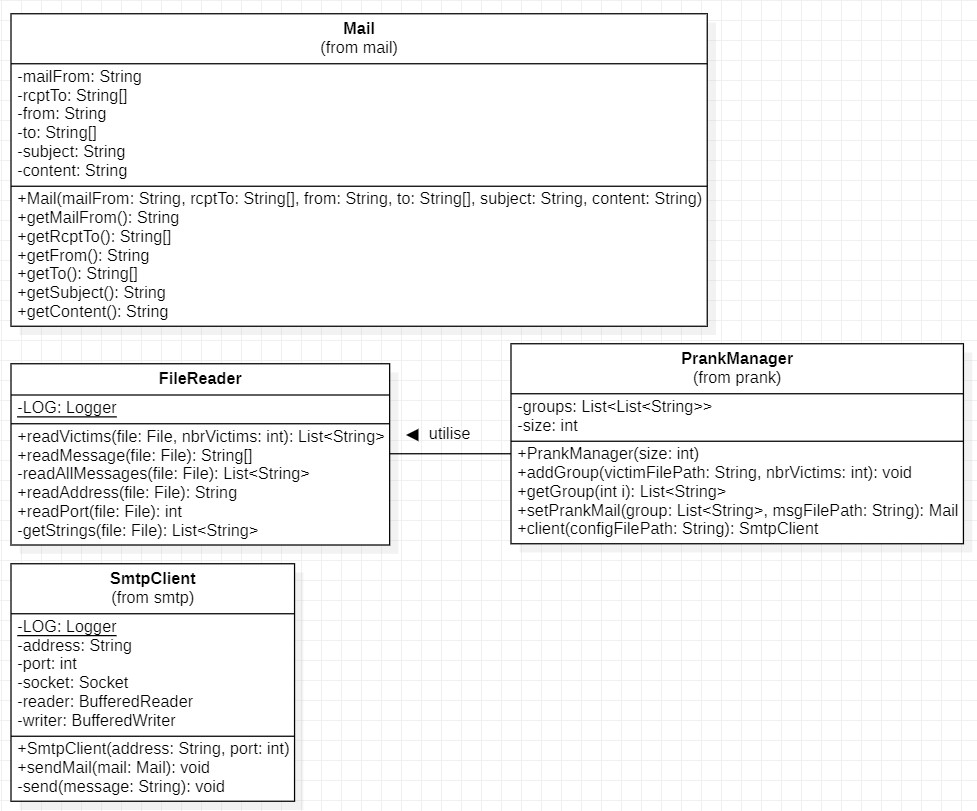
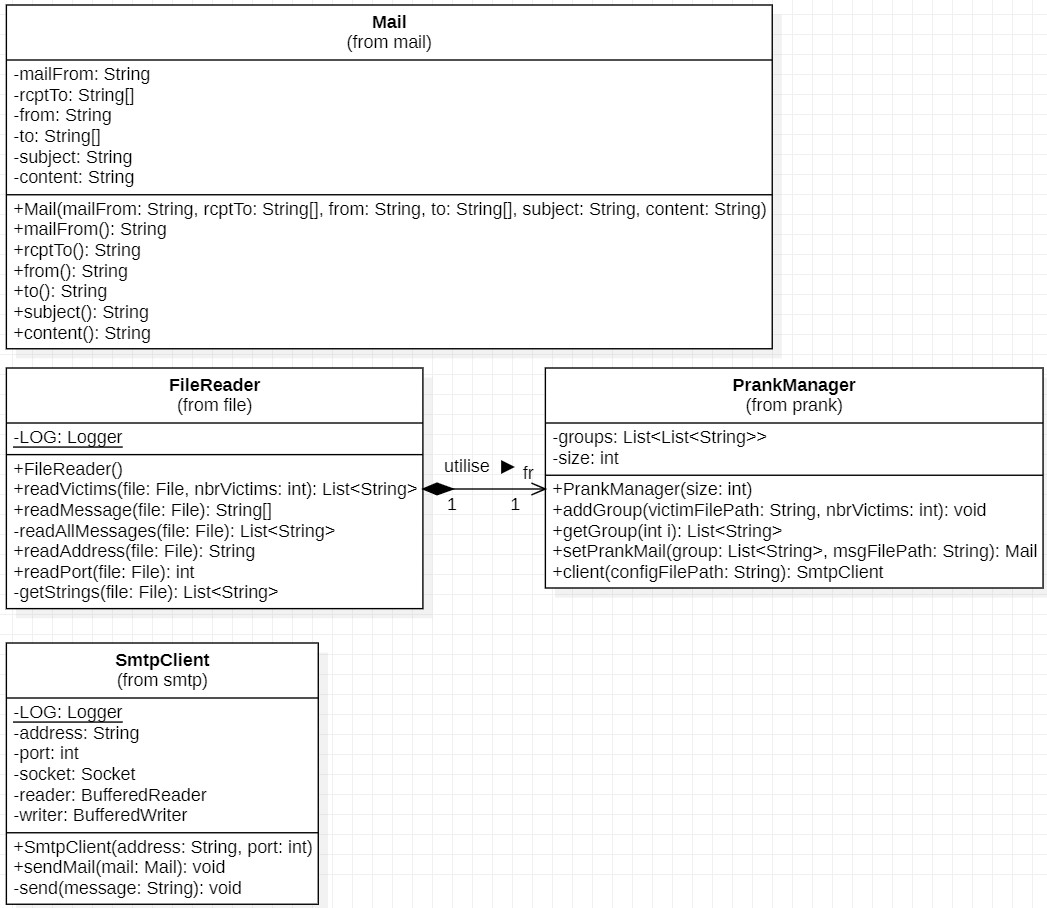
Finalisation du projet

Changed region(s): [[0.0, 0.0, 1.0, 1.0]]

diff --git a/src/main/java/org/example/mail/Mail.java b/src/main/java/org/example/mail/Mail.java
@@ -2,58 +2,27 @@ package org.example.mail;
 
 /**
  * Stocke les informations d'un mail
+ *
+ * @param mailFrom Section "MAIL FROM:" du mail
+ * @param rcptTo   Section "RCPT TO:" du mail
+ * @param from     Section "From:" du mail dans la partie Data
+ * @param to       Section "To:" du mail dans la partie Data
+ * @param subject  Section objet du mail dans la partie Data
+ * @param content  Section contenu du mail dans la partie Data
  * @author Dorian Gillioz & Oscar Baume
  */
-public class Mail {
-    // Variables pour construire le mail
-    private final String mailFrom;
-    private final String[] rcptTo;
-    private final String from;
-    private final String[] to;
-    private final String subject;
-    private final String content;
-
+public record Mail(String mailFrom, String[] rcptTo, String from, String[] to, String subject, String content) {
     /**
      * Constructeur du mail
-     * @param mailFrom  Section "MAIL FROM:" du mail
-     * @param rcptTo    Section "RCPT TO:" du mail
-     * @param from      Section "From:" du mail dans la partie Data
-     * @param to        Section "To:" du mail dans la partie Data
-     * @param subject   Section objet du mail dans la partie Data
-     * @param content   Section contenu du mail dans la partie Data
+     *
+     * @param mailFrom Section "MAIL FROM:" du mail
+     * @param rcptTo   Section "RCPT TO:" du mail
+     * @param from     Section "From:" du mail dans la partie Data
+     * @param to       Section "To:" du mail dans la partie Data
+     * @param subject  Section objet du mail dans la partie Data
+     * @param content  Section contenu du mail dans la partie Data
      */
-    public Mail(String mailFrom, String[] rcptTo, String from, String[] to, String subject, String content) {
-        this.mailFrom = mailFrom;
-        this.rcptTo = rcptTo;
-        this.from = from;
-        this.to = to;
-        this.subject = subject;
-        this.content = content;
+    public Mail {
     }
 
-    // Getters pour les paramètres du Mail
-
-    public String getMailFrom() {
-        return mailFrom;
-    }
-
-    public String[] getRcptTo() {
-        return rcptTo;
-    }
-
-    public String getFrom() {
-        return from;
-    }
-
-    public String[] getTo() {
-        return to;
-    }
-
-    public String getSubject() {
-        return subject;
-    }
-
-    public String getContent() {
-        return content;
-    }
 }

diff --git a/src/main/java/org/example/smtp/SmtpClient.java b/src/main/java/org/example/smtp/SmtpClient.java
@@ -58,11 +58,11 @@ public class SmtpClient {
                 // To detect if we printed all the params
             } while (!read.split(" ")[0].equals("250"));
 
-            send("MAIL FROM: " + mail.getMailFrom() + "\r\n");
+            send("MAIL FROM: " + mail.mailFrom() + "\r\n");
             read = reader.readLine();
             System.out.println(read);
 
-            for (String person : mail.getRcptTo()) {
+            for (String person : mail.rcptTo()) {
                 send("RCPT TO: " + person + "\r\n");
                 read = reader.readLine();
                 System.out.println(read);
@@ -73,20 +73,20 @@ public class SmtpClient {
             System.out.println(read);
 
             send("Content-Type: text/plain; charset=\"utf-8\"\r\n");
-            send("From: " + mail.getFrom() + "\r\n");
+            send("From: " + mail.from() + "\r\n");
 
             StringBuilder to = new StringBuilder();
             to.append("To: ");
-            to.append(mail.getTo()[0]);
-            for (int i = 1; i < mail.getTo().length; ++i) {
-                to.append(", ").append(mail.getTo()[i]);
+            to.append(mail.to()[0]);
+            for (int i = 1; i < mail.to().length; ++i) {
+                to.append(", ").append(mail.to()[i]);
             }
             to.append("\r\n");
             send(to.toString());
 
-            send("Subject: " + mail.getSubject() + "\r\n");
+            send("Subject: " + mail.subject() + "\r\n");
 
-            send("\r\n" + mail.getContent() + "\r\n.\r\n");
+            send("\r\n" + mail.content() + "\r\n.\r\n");
             read = reader.readLine();
             System.out.println(read);
 

diff --git a/src/main/java/org/example/file/FileReader.java b/src/main/java/org/example/file/FileReader.java
@@ -19,8 +19,7 @@ public class FileReader {
     private static final Logger LOG = Logger.getLogger(FileReader.class.getName());
 
     /**
-     * Lit la liste des victimes du fichier et en choisit un nombre de victimes (>= 3) donné,
-     * la première victime sera passée pour l'envoyeur
+     * Lit la liste des victimes du fichier et en choisit un nombre de victimes (>= 3) donné
      * @param file Le fichier de victimes
      * @param nbr_victims Le nombre de victimes à piéger
      *                    Note : doit être >= 3

diff --git a/src/main/java/org/example/prank/PrankManager.java b/src/main/java/org/example/prank/PrankManager.java
@@ -52,7 +52,8 @@ public class PrankManager {
     }
 
     /**
-     * Prépare le mail piège du groupe en paramètre
+     * Prépare le mail piège du groupe en paramètre.
+     * L'émetteur du mail sera la première personne du groupe
      * @param group         Le groupe à piéger
      * @param msgFilePath   Le chemin qui contient la liste des messages à envoyer
      * @return Un objet Mail qui contient toutes les infos du groupe ainsi que le message à envoyer

diff --git a/README.md b/README.md
@@ -16,13 +16,16 @@ en envoyer afin de voir à quoi ressemblerait le mail. Une interface web est fou
 permet de voir le contenu des mails envoyés. C'est un serveur fictif qui n'envoi pas de 
 mails aux destinataires du mail.
 
+## Prérequis pour utiliser l'application
+Avoir java, maven et docker installé.
+
 ## Comment mettre en place le serveur MockMock ?
 Pour mettre en place le serveur MockMock, il faut aller dans le répertoire docker à la racine 
 du projet, ouvrir une invite de commande dans ce répertoire et exécuter dans un premier temps le 
-script ```build-image.sh```, ce script permet de créer le container docker contenant le serveur. 
-Une fois le container créé, il faut exécuter le script ```run-container.sh```. Ce script lance 
+script `build-image.sh`, ce script permet de créer le container docker contenant le serveur. 
+Une fois le container créé, il faut exécuter le script `run-container.sh`. Ce script lance 
 le serveur SMTP. Le serveur peut être accédé soit via l'interface web sur le port 8282 à l'adresse
-localhost, soit via la commande ```telnet localhost 25```.
+localhost, soit via la commande `telnet localhost 25`.
 
 L'interface web une fois lancée devrait ressembler à ça.
 
@@ -35,11 +38,11 @@ ne sera pas utile dans l'exécution de notre programme, car c'est le programme q
 
 ## Comment utiliser l'application pour faire un prank
 Pour compiler le programme et créer son fichier exécutable .jar, il faut effectuer la commande 
-```mvn clean install``` à la racine du projet. L'exécutable .jar se situera dans le répertoire 
-```target```. 
+`mvn clean install` à la racine du projet. L'exécutable .jar se situera dans le répertoire 
+`target`. 
 
 **Attention :** Pour que le programme ait accès aux configurations du serveur, le .jar doit rester
-dans le répertoire ```target```.
+dans le répertoire `target`.
 
 L'application de prank a besoin de 4 paramètres pour s'effectuer correctement :
 1. Le nombre de groupes à créer pour leur envoyer des mails. Il doit être entier
@@ -60,7 +63,7 @@ Une fois ces paramètres correctement donnés, un mail par groupe, constitué de
 passé en paramètre, va être envoyé contenant un message du fichier choisi au hasard.
 
 _Note :_ Des exemples de fichiers pour les messages et les emails se situent respectivement dans 
-les répertoires ```config/messages/messages.txt``` et ```config/victims/victims.txt```.
+les répertoires `config/messages/messages.txt` et `config/victims/victims.txt`.
 
 Exemple d'exécution :
 ```
@@ -120,61 +123,75 @@ Yipyiipyiypy
 
 
 ## Implémentation du projet
+Le projet est divisé en 4 classes différentes qui vont chacun gérer un aspect différent de l'application.
+
 ### Diagramme de classe :
 ![uml_labo_smtp.jpg](figures%2Fuml_labo_smtp.jpg)
 
-### Classe Mail
-La classe Mail contient toutes les informations à écrire dans un mail. C'est-à-dire 
-l'émetteur et les destinataires pour la partie MAIL FROM, RCPT TO et Data, l'objet 
-et le contenu du mail.
+### Record (Classe) Mail
+Le record Mail contient toutes les informations à écrire dans un mail à envoyer. C'est-à-dire 
+l'émetteur et les destinataires pour la partie MAIL FROM, RCPT TO et Data, l'objet et le
+contenu du mail.
 
 ### Classe FileReader
-La classe FileReader permet la lecture des fichiers pour paramétrer les mails.
+La classe FileReader permet la lecture des fichiers et le traitement du contenu des fichiers
+pour paramétrer les mails piégés avec les bons formats.
 ``` java
 List<String> readVictims(File file, int nbrVictims)
 ```
 Cette fonction permet de lire tous les emails dans le fichier donné en paramètre et va 
-ensuite prendre nbrVictims email dans ce fichier et les retourner dans une ```List<String>```.
+ensuite prendre `nbrVictims` email dans ce fichier et les retourner dans une `List<String>`.
 La fonction va aussi vérifier que les emails donnés ont un format correct.
 
 ``` java
 String[] readMessage(File file)
 ```
 Cette fonction permet de récupérer un message au hasard parmis tous les messages dans 
-le fichier donné. Le format de retour est un ```String[]``` qui contient en premier élément
+le fichier donné. La valeur de retour est un `String[]` qui contient en premier élément
 l'objet du mail et en deuxième le contenu du message. Elle récupère la liste de tous les 
-messages depuis la fonction ```readAllMessages``` qui retourne une liste avec une ligne par message.
+messages depuis la fonction `readAllMessages()` qui retourne une liste avec une ligne par message.
 
 ``` java
-String readAddress(File file) et int readPort(File file)
+String readAddress(File file)
+int readPort(File file)
 ```
-Ces fonctions ont un fonctionnement similaire : elles vont récupérer dans un fichier config
+Ces deux fonctions ont un fonctionnement similaire : elles vont récupérer dans un fichier config
 l'adresse du serveur et son port. Pour l'adresse, la fonction va chercher dans le fichier le 
-format ```ip=address``` et pour le port le format ```port=port```.
+format `ip=address` et pour le port, le format `port=port`.
 
 ### Classe PrankManager
-Cette classe permet de préparer le piège à envoyer en mettant en place les groupes de victimes
-et en préparant les mails piégés à envoyer.
+Cette classe permet de préparer le piège à envoyer en mettant en place les groupes de victimes,
+grâce à la fonction `addGroup()`,et en préparant les mails piégés à envoyer.
+
 ``` java
 Mail setPrankMail(List<String> group, String msgFilePath)
 ```
-Cette fonction va retourner un objet Mail contenant toutes les informations pour piéger.
-La liste des personnes à piéger est définie dans le paramètre ```group``` et le message 
-à envoyer va être sélectionné au hasard depuis le paramètre ```msgFilePath```. 
+Cette fonction va retourner un objet `Mail` contenant toutes les informations pour piéger.
+La liste des personnes à piéger est définie dans le paramètre `group` et le message à envoyer
+va être sélectionné au hasard depuis le paramètre `msgFilePath`. L'émetteur choisi sera la 
+première personne dans le groupe passé en paramètre.
 
 ``` java
 SmtpClient client(String configFilePath)
 ```
-Cette fonction va retourner un objet SmtpClient qui est instancié sur les infos du serveur données depuis 
-le fichier donné par le paramètre ```configFilePath```.
+Cette fonction va retourner un objet `SmtpClient` qui est instancié sur les infos du serveur données depuis 
+le fichier donné par le paramètre `configFilePath`.
 
 ### Classe SmtpClient
-Cette classe permet de se connecter au serveur Smtp donné grace au constructeur et d'envoyer le mail donné.
+Cette classe permet de se connecter au serveur Smtp donné grace au constructeur et d'envoyer le mail donné. 
+Elle gère les interactions entre le client et le serveur.
+
 ``` java
 void sendMail(Mail mail)
 ```
 Cette fonction va se connecter au serveur et va envoyer le mail donné en paramètre.
+
 ``` java
 void send(String message) 
 ```
 Cette fonction permet d'envoyer un message au serveur.
+
+### Exemple interaction client-serveur
+![client_serveur.jpg](figures%2Fclient_serveur.jpg)
+- En vert : Réponses du serveur
+- En orange : Messages du client
